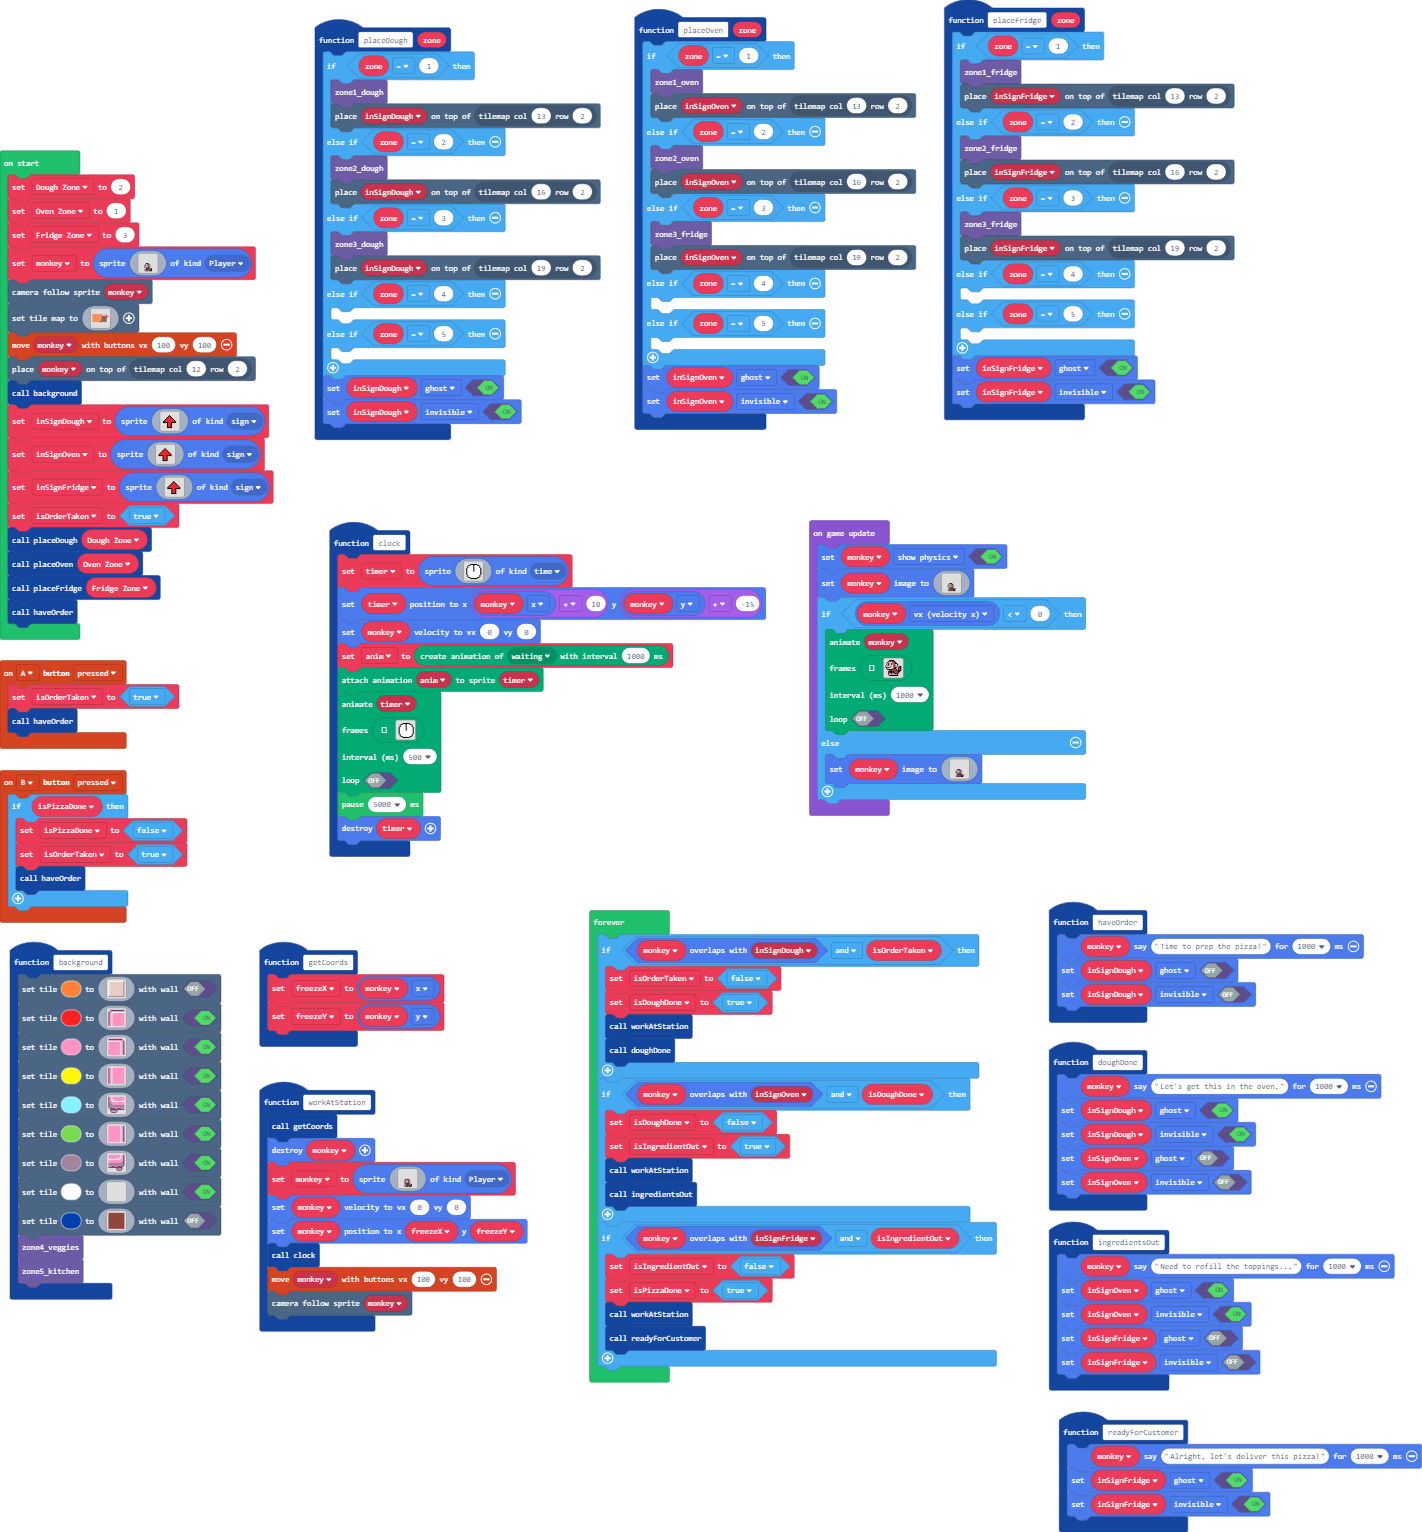
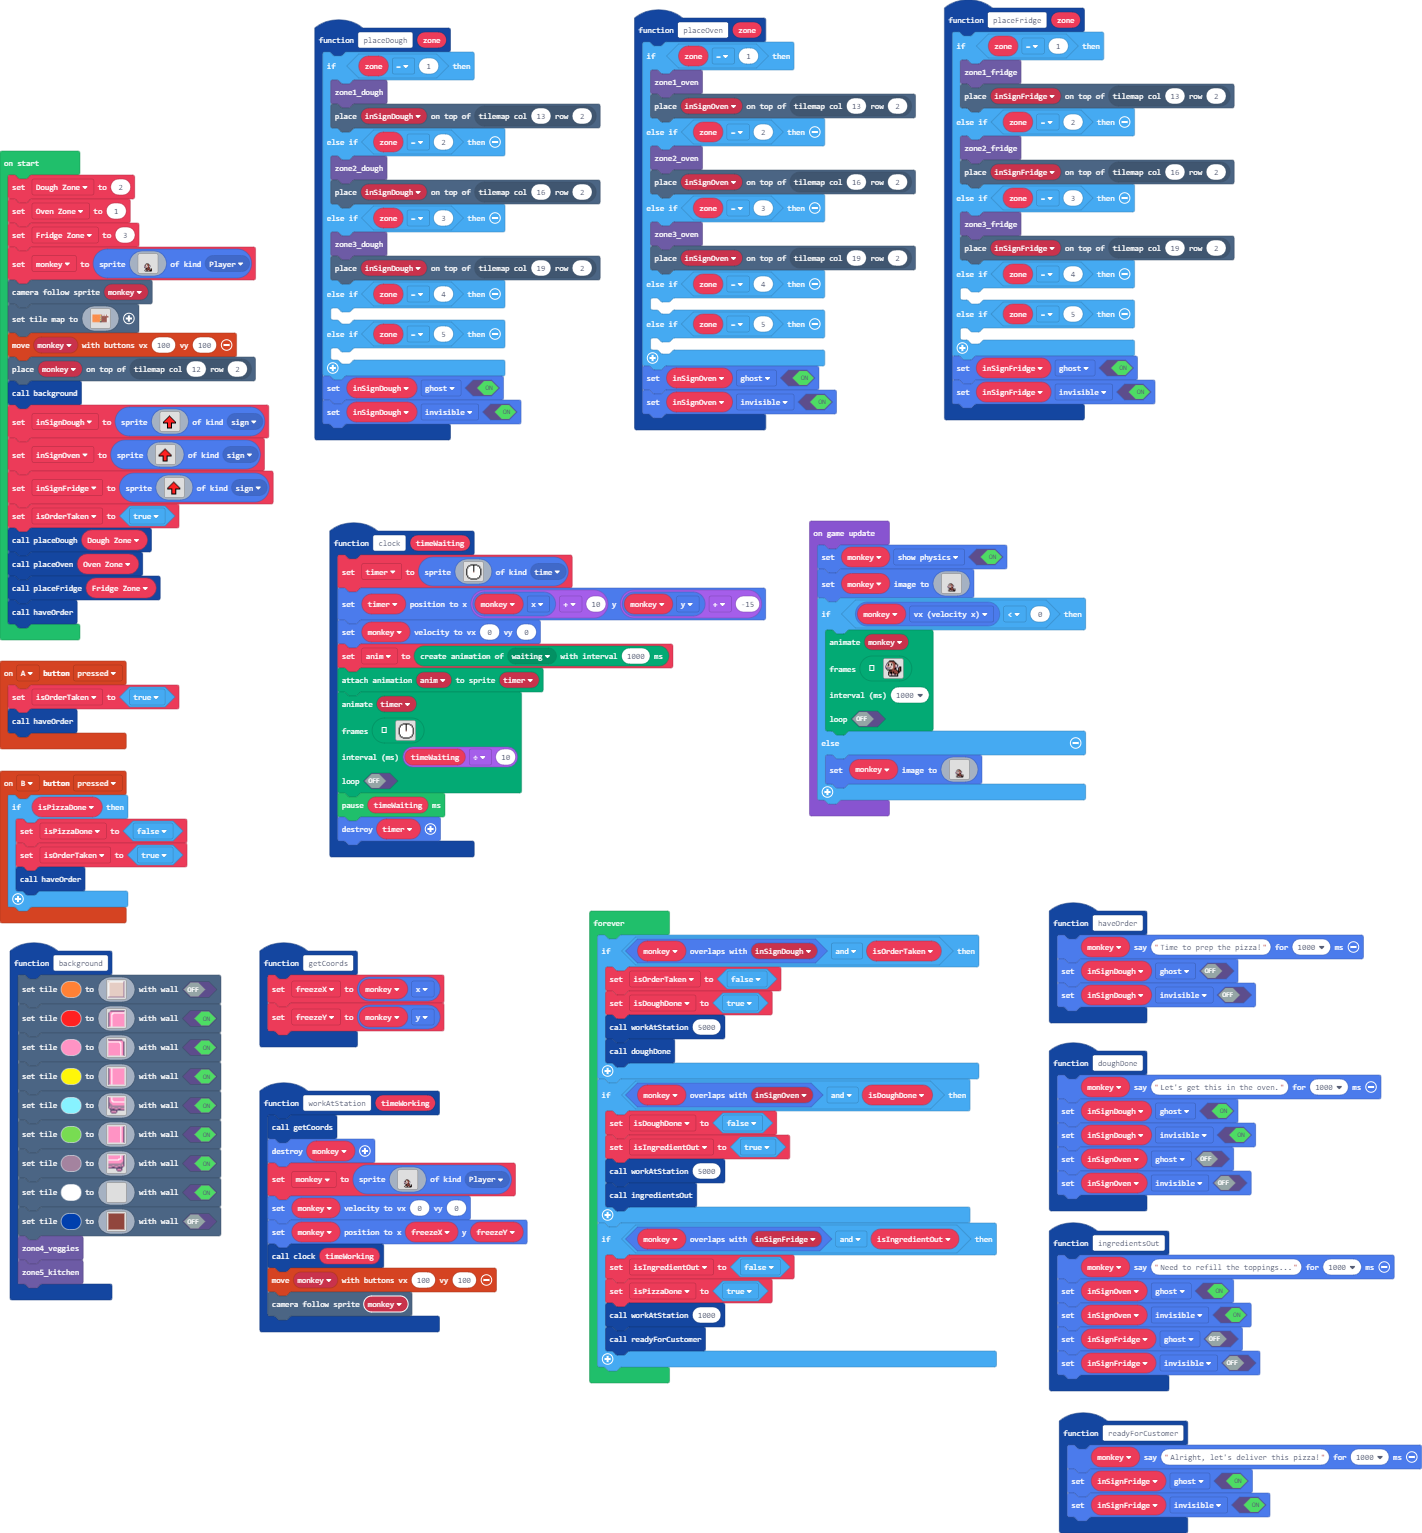
Update main.blocks, main.ts

diff --git a/main.ts b/main.ts
@@ -54,7 +54,7 @@ function haveOrder () {
     inSignDough.setFlag(SpriteFlag.Ghost, false)
     inSignDough.setFlag(SpriteFlag.Invisible, false)
 }
-function clock () {
+function clock (timeWaiting: number) {
     timer = sprites.create(img`
 . . . . . . . . . . . . . . . . 
 . . . . . f f f f f f f . . . . 
@@ -233,10 +233,10 @@ function clock () {
 . . . f f 7 7 7 7 7 7 7 f f . . 
 . . . . . f f f f f f f . . . . 
 `],
-    500,
+    timeWaiting / 10,
     false
     )
-    pause(5000)
+    pause(timeWaiting)
     timer.destroy()
 }
 function placeOven (zone: number) {
@@ -247,7 +247,7 @@ function placeOven (zone: number) {
         oven.zone2_oven()
         tiles.placeOnTile(inSignOven, tiles.getTileLocation(16, 2))
     } else if (zone == 3) {
-        fridge.zone3_fridge()
+        oven.zone3_oven()
         tiles.placeOnTile(inSignOven, tiles.getTileLocation(19, 2))
     } else if (zone == 4) {
     	
@@ -482,7 +482,7 @@ function placeDough (zone: number) {
     inSignDough.setFlag(SpriteFlag.Ghost, true)
     inSignDough.setFlag(SpriteFlag.Invisible, true)
 }
-function workAtStation () {
+function workAtStation (timeWorking: number) {
     getCoords()
     monkey.destroy()
     monkey = sprites.create(img`
@@ -521,7 +521,7 @@ function workAtStation () {
 `, SpriteKind.Player)
     monkey.setVelocity(0, 0)
     monkey.setPosition(freezeX, freezeY)
-    clock()
+    clock(timeWorking)
     controller.moveSprite(monkey, 100, 100)
     scene.cameraFollowSprite(monkey)
 }
@@ -829,19 +829,19 @@ forever(function () {
     if (monkey.overlapsWith(inSignDough) && isOrderTaken) {
         isOrderTaken = false
         isDoughDone = true
-        workAtStation()
+        workAtStation(5000)
         doughDone()
     }
     if (monkey.overlapsWith(inSignOven) && isDoughDone) {
         isDoughDone = false
         isIngredientOut = true
-        workAtStation()
+        workAtStation(5000)
         ingredientsOut()
     }
     if (monkey.overlapsWith(inSignFridge) && isIngredientOut) {
         isIngredientOut = false
         isPizzaDone = true
-        workAtStation()
+        workAtStation(1000)
         readyForCustomer()
     }
 })
